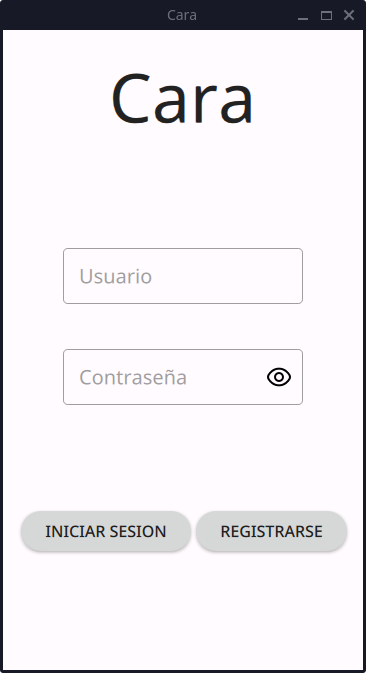
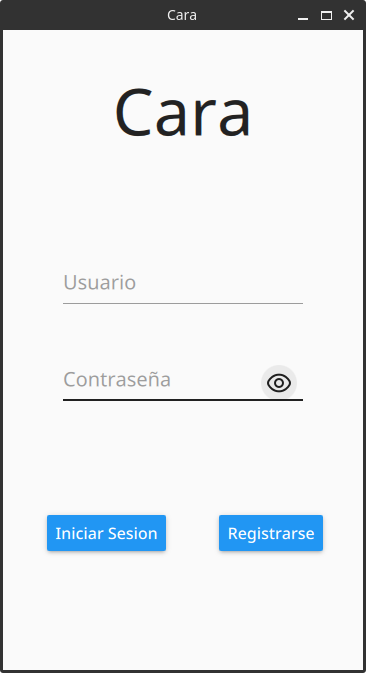
Update buttons

diff --git a/src/Login.qml b/src/Login.qml
@@ -80,6 +80,9 @@ Page {
                 font.pointSize: 12
                 onClicked: requestAuthentication()
                 Layout.alignment: Qt.AlignCenter
+                font.capitalization: Font.MixedCase
+                Material.background: Material.Blue
+                Material.foreground: "white"
             }
 
             Button {
@@ -88,6 +91,9 @@ Page {
                 font.pointSize: 12
                 onClicked: mainStackView.replace("qrc:/main/SignUp.qml")
                 Layout.alignment: Qt.AlignCenter
+                font.capitalization: Font.MixedCase
+                Material.background: Material.Blue
+                Material.foreground: "white"
             }
         }
 
